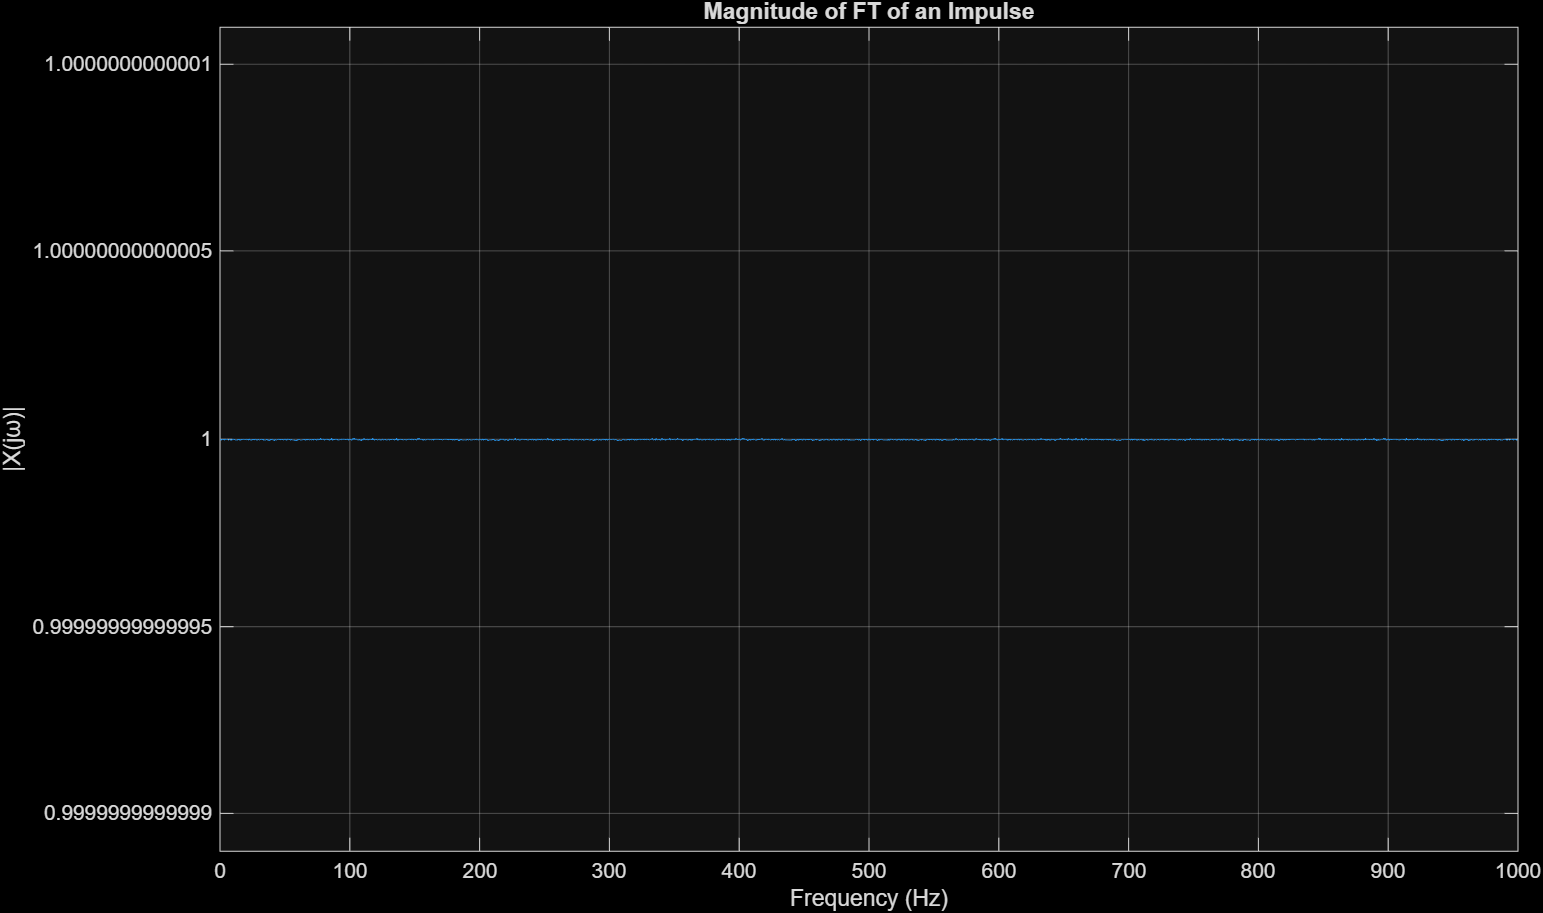
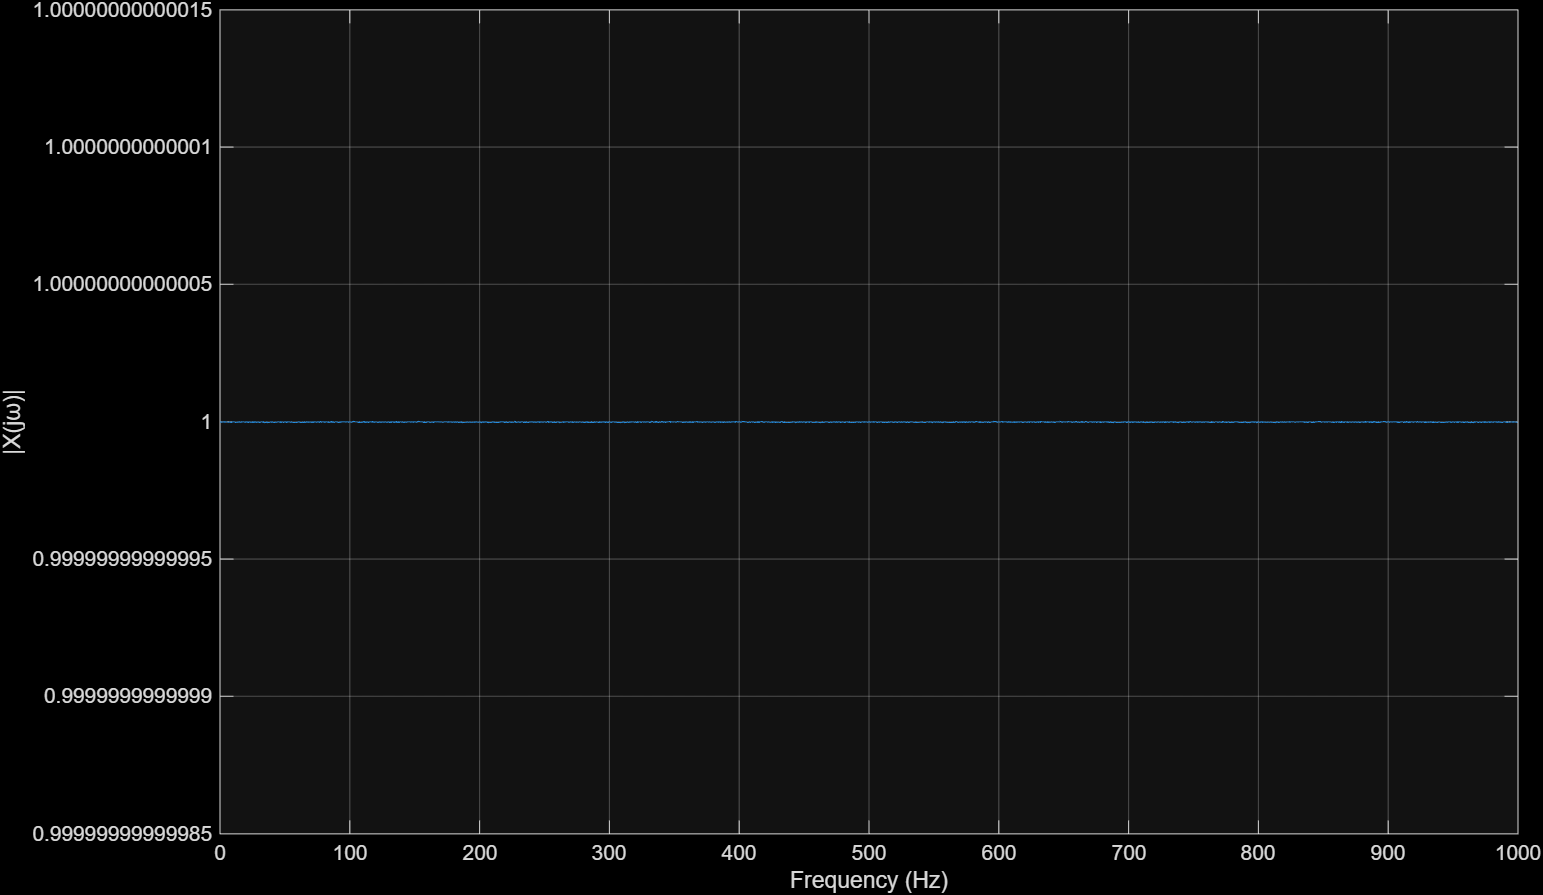
Finished q12

diff --git a/Assignment 1/q13a.m b/Assignment 1/q13a.m
@@ -1,0 +1,28 @@
+clc;
+clear all;
+close all;
+
+% Part a
+T = 1;              % Period
+k = -5:5;           % Integer variables
+impulse = k * T;    % t = kT
+
+amp = ones(size(impulse));
+
+% Create a new figure and plot using stem
+figure;
+stem(impulse, amp, 'filled', 'LineWidth', 1.5, 'MarkerSize', 8);
+
+% --- Formatting for a clean look ---
+title('Impulse Train m(t) for T = 1', 'FontSize', 14);
+xlabel('Time (t)', 'FontSize', 12);
+ylabel('m(t)', 'FontSize', 12, 'Rotation', 0, 'HorizontalAlignment', 'right');
+grid on;
+ylim([0 1.2]);
+xlim([min(k)-1 max(k)+1]);
+
+% Move axes to the origin
+ax = gca; % Get current axes
+ax.XAxisLocation = 'origin';
+ax.YAxisLocation = 'origin';
+box off;

diff --git a/Assignment 1/q13b.m b/Assignment 1/q13b.m
@@ -1,0 +1,28 @@
+clc;
+clear all;
+close all;
+
+% Part a
+T = 2;              % Period
+k = -6:6;           % Integer variables
+impulse = k * T;    % t = kT
+
+amp = ones(size(impulse));
+
+% Create a new figure and plot using stem
+figure;
+stem(impulse, amp, 'filled', 'LineWidth', 1.5, 'MarkerSize', 8);
+
+% --- Formatting for a clean look ---
+title('Impulse Train m(t) for T = 2', 'FontSize', 14);
+xlabel('Time (t)', 'FontSize', 12);
+ylabel('m(t)', 'FontSize', 12, 'Rotation', 0, 'HorizontalAlignment', 'right');
+grid on;
+ylim([0 1.2]);
+xlim([min(k)-1 max(k)+1]);
+
+% Move axes to the origin
+ax = gca; % Get current axes
+ax.XAxisLocation = 'origin';
+ax.YAxisLocation = 'origin';
+box off;

diff --git a/Assignment 1/q12bb.m b/Assignment 1/q12bb.m
@@ -4,7 +4,7 @@ close all;
 
 % Part b
 % Define parameters for the signal
-T = 2;          % 0.5 Width of pulse
+T = 2*pi;          % 0.5 Width of pulse
 Fs = 1000;      % Sampling frequency, Hz
 dt = 1/Fs;      % Sampling Period, s
 t = -10:dt:10;  % Time vector
@@ -29,7 +29,8 @@ mag_shifted = fftshift(mag);
 plot(w, mag_shifted);
 xlabel('Frequency (Hz)');
 ylabel('|X(jω)|');
-xlim([-10 10]);
+xlim([-0.5 0.5]);
+
 grid on;
 
 

diff --git a/Assignment 1/q12ba.m b/Assignment 1/q12ba.m
@@ -23,7 +23,7 @@ f = (0:N-1) * (Fs/N);
 
 % Plotting the Magnitude Spectrum
 plot(f, mag);
-xlabel('Frequency (Hz)');
+xlabel('Time (s)');
 ylabel('|X(jω)|');
 grid on;
 
